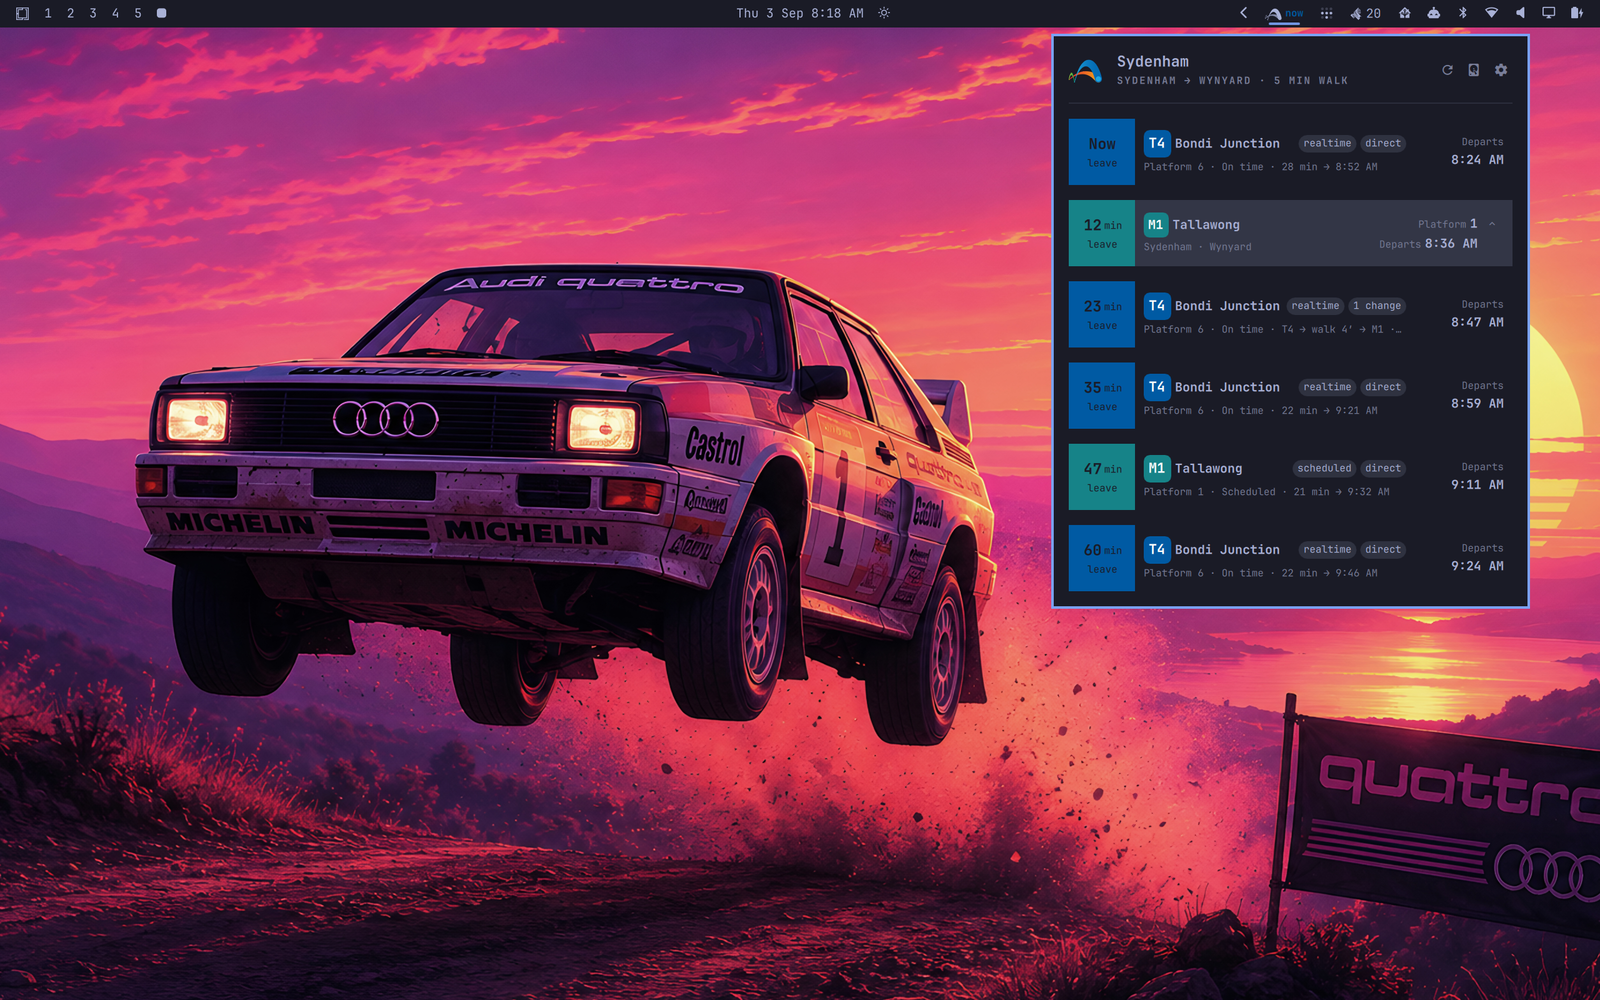
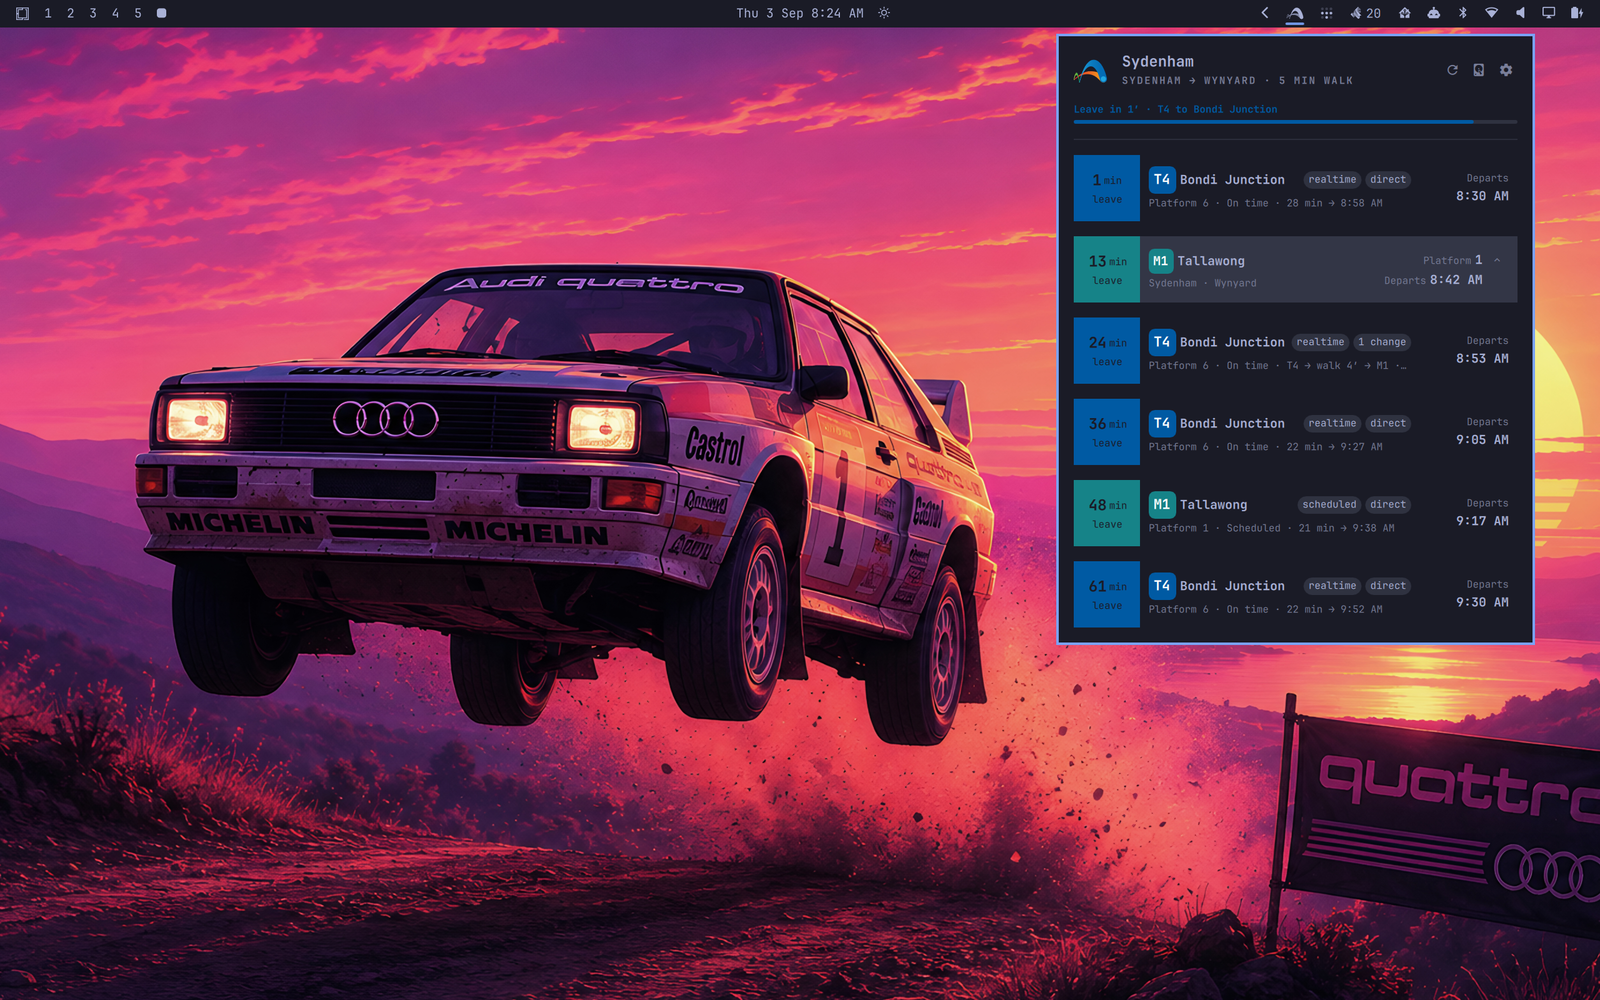
Readable text on every line colour; hero keeps the route when tight
- Api.lightTextOn picks white or near-black for badges and countdown
  blocks by WCAG contrast; TfNSW's white-on-everything fails on T1/T3/bus/
  ferry
- Leave-window label drawn in the theme foreground (line colour only on
  the track fill; L3 on the panel background was 1.6:1)
- Hero meta falls back to the route alone, not the walk time, when the
  full line does not fit
- Spec: light rail and metro colours re-verified against GTFS route_color

Claude-Session: https://claude.ai/code/session_01L39ZNysRaxwFhDcqYH7HYP

Changed region(s): [[0.6562, 0.031, 0.9688, 0.651], [0.7812, 0.0, 0.8125, 0.031]]

diff --git a/DepartureRow.qml b/DepartureRow.qml
@@ -38,6 +38,8 @@ CursorSurface {
   readonly property color muted: Qt.darker(fg, 1.45)
   readonly property string family: bar ? bar.fontFamily : Style.font.family
   readonly property color countdownColor: cancelled || missed ? Color.muted : Api.lineColor(line, mode)
+  readonly property color countdownFg: cancelled || missed ? Color.background
+    : (Api.lightTextOn(Api.lineColor(line, mode)) ? "#FFFFFF" : "#1A1A1A")
   readonly property string countdownText: cancelled ? "—" : missed ? "Missed" : leaveMs < 60 * 1000 ? "Now" : String(Math.min(99, Math.floor(leaveMs / 60000)))
   readonly property bool countdownHasUnit: !cancelled && !missed && leaveMs >= 60 * 1000
   readonly property string countdownLabel: walkMinutes > 0 ? "leave" : "departs"
@@ -100,7 +102,7 @@ CursorSurface {
             anchors.verticalCenter: parent.verticalCenter
             textFormat: Text.PlainText
             text: root.countdownText
-            color: Color.background
+            color: root.countdownFg
             font.family: root.family
             font.pixelSize: root.countdownText === "Missed" ? Style.font.bodySmall : Style.font.title
             font.bold: true
@@ -112,7 +114,7 @@ CursorSurface {
             visible: root.countdownHasUnit
             textFormat: Text.PlainText
             text: "min"
-            color: Color.background
+            color: root.countdownFg
             font.family: root.family
             font.pixelSize: Style.font.caption
           }
@@ -123,7 +125,7 @@ CursorSurface {
           visible: !root.cancelled && !root.missed
           textFormat: Text.PlainText
           text: root.countdownLabel
-          color: Color.background
+          color: root.countdownFg
           font.family: root.family
           font.pixelSize: Style.font.caption
         }

diff --git a/Api.js b/Api.js
@@ -50,6 +50,30 @@ var LINE_COLORS = {
   F6: "#00AB51", F7: "#00B189", F8: "#55622B", F9: "#65B32E", F10: "#5AB031",
   B1: "#FFB81C"
 }
+// WCAG relative luminance of a "#RRGGBB" colour; used to pick a readable
+// text colour on top of a line colour (T1 orange needs dark text, L3 plum
+// needs light text).
+function luminance(hex) {
+  var h = String(hex || "").replace("#", "")
+  if (h.length !== 6) return 0
+  var out = [0.2126, 0.7152, 0.0722]
+  var sum = 0
+  for (var i = 0; i < 3; i++) {
+    var c = parseInt(h.substr(i * 2, 2), 16) / 255
+    c = c <= 0.03928 ? c / 12.92 : Math.pow((c + 0.055) / 1.055, 2.4)
+    sum += out[i] * c
+  }
+  return sum
+}
+function contrastRatio(a, b) {
+  var la = luminance(a), lb = luminance(b)
+  return (Math.max(la, lb) + 0.05) / (Math.min(la, lb) + 0.05)
+}
+// true when light text reads better than dark text on this colour.
+function lightTextOn(hex) {
+  return contrastRatio("#FFFFFF", hex) >= contrastRatio("#000000", hex)
+}
+
 function lineColor(line, modeId) {
   var key = String(line || "").trim().toUpperCase()
   if (LINE_COLORS[key]) return LINE_COLORS[key]

diff --git a/tests/test_api.js b/tests/test_api.js
@@ -91,4 +91,9 @@ assert(journeys[0].durationSec > 0 && journeys[0].departMs < journeys[0].arriveM
 const walkOnly = Api.parseJourneys(fixture("trip_address_to_wynyard.json"))
 equal([walkOnly[0].legs[0].kind, walkOnly[0].legs[0].distanceM, walkOnly[0].legs[0].durationSec], ["walk", 254, 228], "walking leg from an address")
 
+assert(Api.lightTextOn("#005AA3") && Api.lightTextOn("#781140") && Api.lightTextOn("#DD1E25"), "light text on T4, L3 and L2")
+assert(!Api.lightTextOn("#F99D1C") && !Api.lightTextOn("#00B5EF") && !Api.lightTextOn("#5AB031"), "dark text on T1, bus and ferry")
+assert(Math.abs(Api.contrastRatio("#FFFFFF", "#000000") - 21) < 0.01, "contrast ratio of black on white is 21")
+equal(Api.luminance("bogus"), 0, "bad colours have zero luminance")
+
 done("test_api")

diff --git a/Panel.qml b/Panel.qml
@@ -61,7 +61,8 @@ Panel {
     if (heroBaseMeasure.advanceWidth <= heroMetaAvailableWidth)
       return baseText
 
-    return heroWalk || heroRoute
+    // The route is the point of the line; PanelHero elides it if it must.
+    return heroRoute
   }
   readonly property string refreshTooltip: {
     if (!ready || !service.lastPolledMs)
@@ -374,7 +375,7 @@ Panel {
               + (root.ready && root.service.nextLine ? " · " + root.service.nextLine : "")
               + (root.ready && root.service.nextDestination ? " to " + root.service.nextDestination : "")
             elide: Text.ElideRight
-            color: root.lineAccent
+            color: root.fg
             font.family: root.family
             font.pixelSize: Style.font.caption
             font.bold: true

diff --git a/LineBadge.qml b/LineBadge.qml
@@ -33,7 +33,9 @@ Item {
     text: root.code
     horizontalAlignment: Text.AlignHCenter
     elide: Text.ElideRight
-    color: "white"
+    // Official badges are always white-on-colour; we trade that for legibility
+    // on the light lines (T1 orange, bus blue, ferry green).
+    color: Api.lightTextOn(Api.lineColor(root.line, root.mode)) ? "white" : "#1A1A1A"
     font.family: "JetBrains Mono"
     font.pixelSize: Math.max(8, root.size * 0.5)
     font.bold: true

diff --git a/docs/SPEC.md b/docs/SPEC.md
@@ -347,3 +347,13 @@ colour** of the next catchable service, width = `underlineFraction`
 Circular Quay". Hidden when leave-in is over 10 min or nothing is catchable.
 `Model.barState` also returns `line` and `destination` (headsign) for the
 label; `Service` exposes `nextLine` / `nextDestination`.
+
+## v0.5.2 addendum: colour accuracy and contrast
+Line colours are the TfNSW GTFS `route_color` values (verified 2026-09-03
+from the light rail and metro schedule feeds: L1 BE1622, L2 DD1E25,
+L3 781140, M 168388; trains from transportnsw.info line pages). GTFS gives
+`route_text_color` FFFFFF for every line, but white fails WCAG on the light
+lines (T1 2.1:1, T3 2.9:1, bus 2.4:1, ferry 2.7:1), so badge and countdown
+text pick white or near-black by contrast (`Api.lightTextOn`). The
+leave-window label is drawn in the theme foreground; only the track fill
+carries the line colour (L3 on the panel background is 1.6:1).
